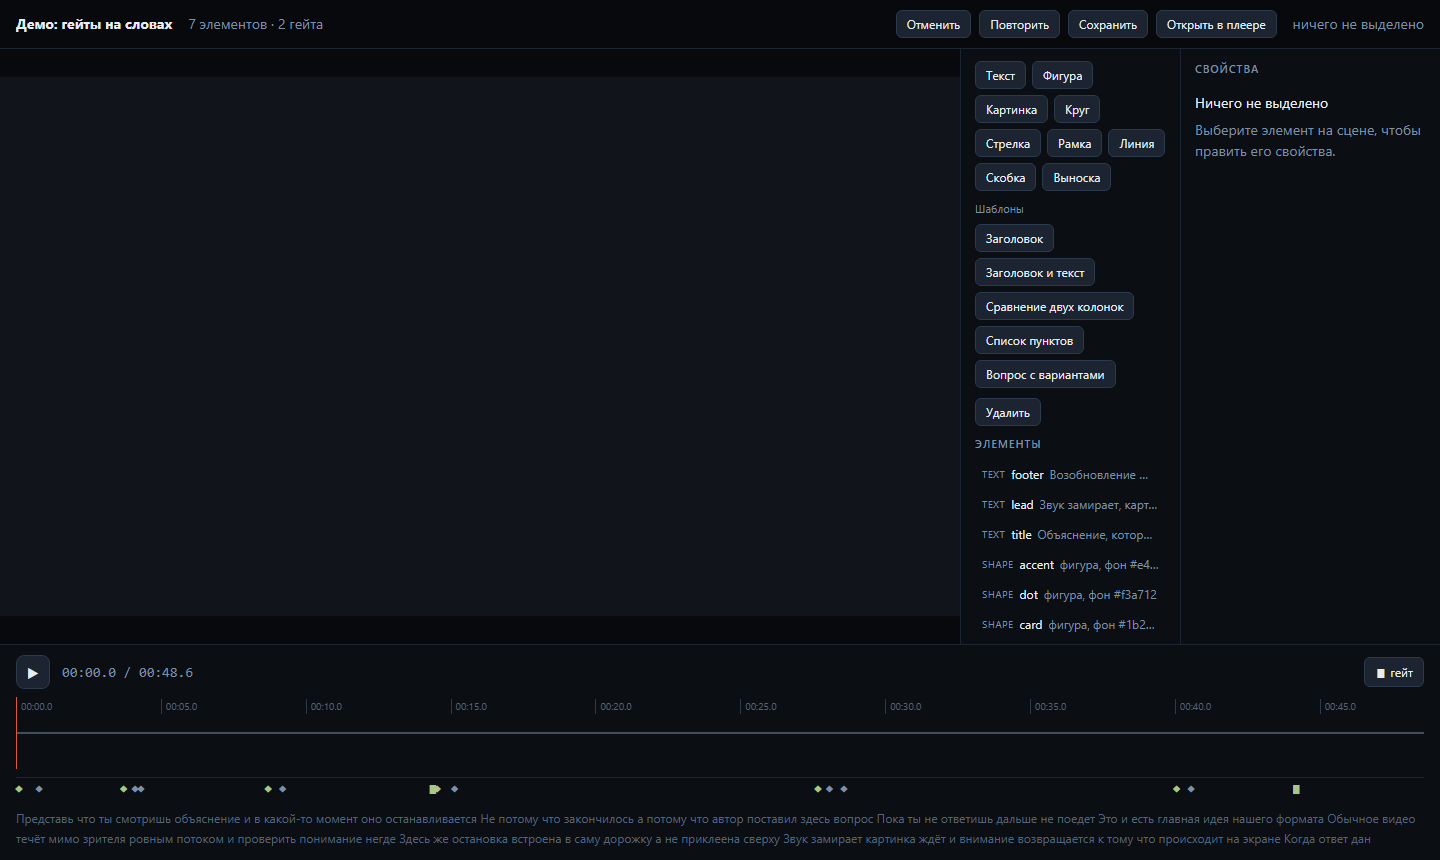
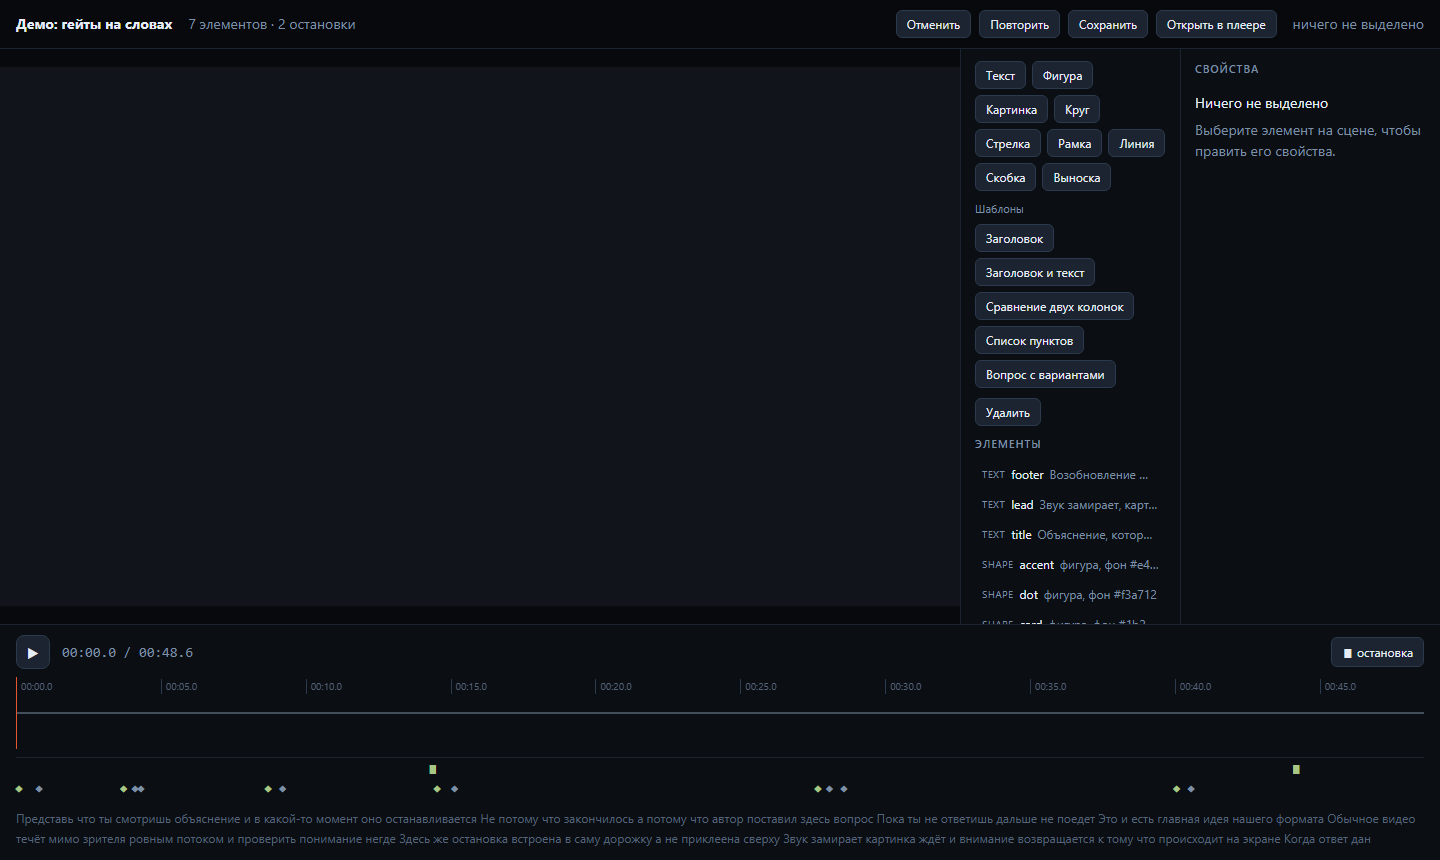
Долги приёмки: метка остановки доступна, колонка редактора прокручивается
known-bugs §7. Метку остановки нельзя было нажать, если на том же слове
стоит слайд: слайд рисуется позже и перехватывал нажатие целиком —
elementFromPoint в центре остановки возвращал узел слайда. Автор физически
не мог открыть настройки такой остановки, а случай частый: миграция ставит
слайд на каждое слово с кью.

Вылечено разведением по вертикали — остановки в свою полосу, слайды в свою.
Не z-index'ом: порядок наложения решает, кто сверху, но обе метки продолжали
бы занимать один пиксель, и недоступной стала бы просто другая из них.
Тест нажимает по видимой метке на demo.json (gate-choice, слово №32 —
ровно тот случай, что был недоступен) и проверяет, что открылась панель
именно этой остановки; парный тест — что слайд на том же слове доступ
не потерял.

known-bugs §8. Панели «Слайды» и «Части» выдавливало за нижнюю границу
колонки. Причина оказалась в одной строке: у колонки стояли ОБА правила —
overflow-y: auto и ниже overflow: hidden, — и второе перебивало первое.
Всё, что не помещалось, обрезалось вместо прокрутки.

ОХРАННИК ПРОВЕРЕН НА СЛОМАННОМ КОДЕ. Первая версия теста звала
scrollIntoViewIfNeeded — и была зелёной ДАЖЕ с overflow: hidden, потому
что программная прокрутка работает и там. То есть проверяла не то, что
ломалось. Переписано на настоящий жест: колесо мыши над колонкой, затем
scrollTop. С возвращённым дефектом тест краснеет, с починкой зеленеет —
проверено прогоном в обе стороны. Плюс защита от зелени впустую: тест
[…]

diff --git a/e2e/editor-segments.spec.ts b/e2e/editor-segments.spec.ts
@@ -145,3 +145,62 @@ test.describe('части: панель сегментов', () => {
     expect(shown.join(' | ')).toContain('Концовка: нет');
   });
 });
+
+/**
+ * known-bugs §8: панели «Слайды» и «Части» выдавливало за нижнюю границу
+ * колонки.
+ *
+ * Замерено в Сессии 7 на 1440×860: колонка 615 px, панель слайдов начинается
+ * на 528-й. Три подпанели со своими потолками по 180 px плюс вставка
+ * и шаблоны в колонку не помещаются, а у самой колонки стояли ОБА правила —
+ * overflow-y: auto и ниже overflow: hidden. Второе перебивало первое, и всё
+ * лишнее не прокручивалось, а обрезалось.
+ *
+ * Проверяется доступность, а не красота: до автора должна доезжать
+ * последняя панель колонки, иначе кнопки «добавить часть» для него
+ * не существует.
+ */
+test.describe('колонка редактора прокручивается до последней панели', () => {
+  test('колонку можно прокрутить колесом мыши до нижней панели', async ({ page }) => {
+    await page.setViewportSize({ width: 1440, height: 860 });
+    await openEditor(page, 'demo');
+
+    // Ждём, пока колонка наполнится: панель частей — последняя в ней, и пока
+    // её нет, содержимое помещается, прокручивать нечего и проверка была бы
+    // зелена впустую.
+    await expect(page.getByTestId('segment-add')).toBeAttached();
+
+    const column = page.locator('.ed-elements-panel');
+    const box = await column.boundingBox();
+    if (!box) throw new Error('колонка не видна');
+
+    const overflow = await column.evaluate((el) => el.scrollHeight - el.clientHeight);
+    expect(overflow, 'содержимое обязано не помещаться, иначе проверять нечего')
+      .toBeGreaterThan(0);
+
+    // Настоящий жест зрителя, а НЕ scrollIntoViewIfNeeded: программная
+    // прокрутка работает и в контейнере с overflow: hidden, поэтому такой
+    // проверкой дефект не поймать — она была зелёной и на сломанном коде.
+    await page.mouse.move(box.x + box.width / 2, box.y + box.height / 2);
+    await page.mouse.wheel(0, 600);
+
+    const scrolled = await column.evaluate((el) => el.scrollTop);
+    expect(scrolled, 'колонка обязана прокручиваться колесом').toBeGreaterThan(0);
+  });
+
+  test('кнопка «добавить часть» доезжает до автора и работает', async ({ page }) => {
+    await page.setViewportSize({ width: 1440, height: 860 });
+    await openEditor(page, 'demo');
+
+    const before = await page.evaluate(() =>
+      (window as unknown as { __project: { segments: unknown[] } }).__project.segments.length);
+
+    const add = page.getByTestId('segment-add');
+    await add.scrollIntoViewIfNeeded();
+    await add.click();
+
+    const after = await page.evaluate(() =>
+      (window as unknown as { __project: { segments: unknown[] } }).__project.segments.length);
+    expect(after).toBe(before + 1);
+  });
+});

diff --git a/packages/editor/src/styles.ts b/packages/editor/src/styles.ts
@@ -166,8 +166,14 @@ export const EDITOR_STYLES = `
    вставки картинки — условный ребёнок, и число строк грида «поехало» бы
    в его отсутствие. Список получает flex: 1 1 auto и забирает весь остаток
    высоты независимо от того, сколько соседей сейчас отрисовано. */
+/* Прокрутка у самой колонки, а не только у списков внутри.
+   Раньше здесь стояли ОБА правила — overflow-y: auto и ниже overflow:
+   hidden, — и второе перебивало первое: всё, что не поместилось, просто
+   обрезалось. Списки внутри имеют свои потолки по 180 px, но их трое
+   (элементы, слайды, части) плюс вставка и шаблоны, и в колонку 615 px
+   они не помещаются — нижняя панель уезжала за край и становилась
+   недоступной (known-bugs §8, замерено: 191×99 на отметке 528). */
 .ed-elements-panel {
-  overflow-y: auto;
   display: flex;
   flex-direction: column;
   gap: 10px;
@@ -176,7 +182,8 @@ export const EDITOR_STYLES = `
   border-left: 1px solid #1c242f;
   min-height: 0;
   min-width: 0;
-  overflow: hidden;
+  overflow-y: auto;
+  overflow-x: hidden;
 }
 
 .ed-insert { flex: 0 0 auto; display: flex; flex-wrap: wrap; gap: 6px; }
@@ -451,9 +458,14 @@ export const EDITOR_STYLES = `
 
 /* Полоса меток. Отдельной строкой под волной: лежи метки поверх неё,
    они отбирали бы у перемотки половину нажатий. */
+/* Две полосы, а не одна: остановки сверху, слайды снизу.
+   Пока полоса была одна, метка на том же слове перекрывала соседнюю
+   ЦЕЛИКОМ — слайд рисуется позже и перехватывал нажатие, из-за чего
+   настройки такой остановки нельзя было открыть вовсе (known-bugs §7).
+   Случай частый: миграция ставит слайд на каждое слово с кью. */
 .ed-marks {
   position: relative;
-  height: 22px;
+  height: 42px;
   border-top: 1px solid #1c242f;
 }
 
@@ -482,6 +494,12 @@ export const EDITOR_STYLES = `
 .ed-mark-word { color: #a8c686; }
 .ed-mark-gate { color: #e4572e; }
 .ed-mark-gate.ed-mark-word { color: #a8c686; }
+
+/* Своя полоса каждому роду метки. Разведение по вертикали, а не по z-index:
+   порядок наложения решает, КТО сверху, но обе метки продолжают занимать
+   один и тот же пиксель — недоступной становится просто другая из них. */
+.ed-mark-gate { top: 2px; }
+.ed-mark-slide { top: 22px; }
 
 /* Строка транскрипта. Одна строка с прокруткой: расти в высоту она
    не имеет права — иначе дорожка съест сцену.

diff --git a/e2e/marks.spec.ts b/e2e/marks.spec.ts
@@ -205,3 +205,51 @@ test.describe('метки на дорожке', () => {
     }
   });
 });
+
+/**
+ * known-bugs §7: метку остановки нельзя было нажать, если на том же слове
+ * стоит слайд.
+ *
+ * Слайд рисуется позже остановки (`Editor.tsx`, `marks` — сначала гейты,
+ * потом слайды) и перехватывал нажатие ЦЕЛИКОМ: `elementFromPoint` в центре
+ * остановки возвращал узел слайда. Автор физически не мог открыть настройки
+ * такой остановки, а случай частый — миграция ставит слайд на каждое слово
+ * с кью.
+ *
+ * Вылечено разведением по вертикали: остановки в свою полосу, слайды в свою.
+ * Не z-index'ом — порядок наложения решает, кто сверху, но обе метки
+ * продолжали бы занимать один пиксель, и недоступной стала бы просто другая.
+ */
+test.describe('метки не перекрывают друг друга', () => {
+  test('остановку на том же слове, что слайд, можно выбрать нажатием', async ({ page }) => {
+    await openEditor(page);
+
+    // demo.json: gate-choice стоит на слове №32, и миграция кладёт на то же
+    // слово слайд node-1-slide-9. Ровно тот случай, что был недоступен.
+    const gate = page.getByTestId('mark-gate-gate-choice');
+    await expect(gate).toBeVisible();
+
+    // Нажатие по ВИДИМОЙ метке, а не вызов обработчика: дефект был именно
+    // в том, что до обработчика нажатие не доходило.
+    await gate.click();
+
+    await expect(page.getByTestId('mark-panel')).toBeVisible();
+    // Открылась панель именно этой остановки, а не соседнего слайда.
+    // Идентификатор лежит в значении поля, а не в тексте панели.
+    await expect(page.getByTestId('mark-panel').getByRole('textbox', { name: 'Идентификатор' }))
+      .toHaveValue('gate-choice');
+  });
+
+  test('слайд на том же слове тоже остаётся доступен', async ({ page }) => {
+    await openEditor(page);
+
+    // Обратная сторона: разведение не должно было отобрать доступ у слайда.
+    const slide = page.getByTestId('mark-slide-node-1-slide-9');
+    await expect(slide).toBeVisible();
+    await slide.click();
+
+    await expect(page.getByTestId('mark-panel')).toBeVisible();
+    await expect(page.getByTestId('mark-panel').getByRole('textbox', { name: 'Идентификатор' }))
+      .toHaveValue('node-1-slide-9');
+  });
+});
